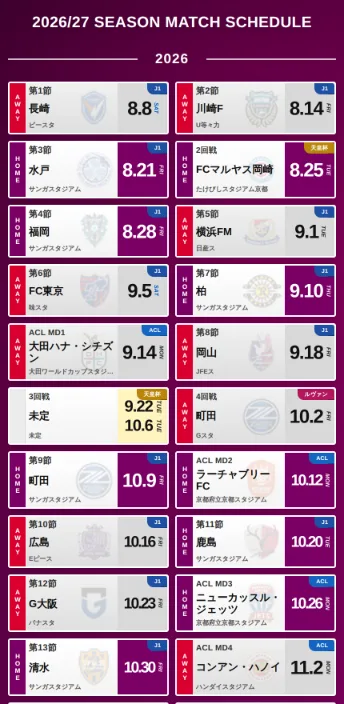
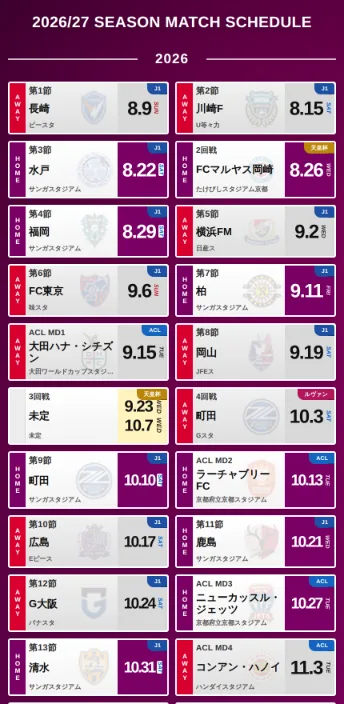
試合日の表示が端末のタイムゾーンで1日ずれるのを直す (#198)
入口ページのサムネイルで日付が1日前になっていた。調べたところ
サムネイルだけの問題ではなく、ページ自体の不具合だった。

  const date = new Date(`${value}T00:00:00+09:00`);  // JSTの瞬間を作る
  `${date.getMonth()+1}.${date.getDate()}`           // 端末のタイムゾーンで読む

日本より西では1日前の日付と曜日が出る。実測:

  Asia/Tokyo        第1節 8.9 SUN   正しい
  Australia/Sydney  第1節 8.9 SUN   正しい
  UTC / London / Los Angeles  第1節 8.8 SAT   ずれている

JSONの値は 2026-08-09（日）。サムネイルはUTCのコンテナで撮ったため
ずれた画像になっていた。海外から見ている人にも同じ画面が出ていたことになる。

試合日は固定の暦日なので、端末のタイムゾーンで変わってはいけない。
月日は文字列から直接取り、曜日だけUTC基準で計算するようにした。

UTCからPacific/Midway（-11）、Pacific/Kiritimati（+14）まで、表示された
71件の日付すべてが暦と一致することを確認した。サムネイルも撮り直し、
撮影時のタイムゾーンを Asia/Tokyo に固定した。

あわせて、tools/asset-versions.mjs の対象を画像へ広げた。中身を差し替えても
名前が同じなら、再訪した人には古い画像が使われ続ける。今回のサムネイルが
まさにその状態だった。tools.json のサムネイル参照と、HTMLの画像参照に
内容ハッシュが付く。tools.json のパスは public/ からの相対で書かれているため、
解決の基準を分けている。download属性の保存ファイル名など実ファイルでない
文字列には当たらないよう、画像は見つからなければ触らない。

画像を1バイト変えると検出されることを確認した。

diff --git a/public/sanga2025season.html b/public/sanga2025season.html
@@ -19,47 +19,47 @@
 </head>
 <body>
   <header class="site-header">
-    <img src="img/header.png" alt="Header Image">
+    <img src="img/header.png?v=dfedb800" alt="Header Image">
   </header>
   <div class="image-grid">
-    <img src="img/1.png" alt="Image 1" width="159" height="37">
-    <img src="img/2.png" alt="Image 2" width="159" height="37">
-    <img src="img/3.png" alt="Image 3" width="159" height="37">
-    <img src="img/4.png" alt="Image 4" width="159" height="37">
-    <img src="img/5.png" alt="Image 5" width="159" height="37">
-    <img src="img/6.png" alt="Image 6" width="159" height="37">
-    <img src="img/7.png" alt="Image 7" width="159" height="37">
-    <img src="img/8.png" alt="Image 8" width="159" height="37">
-    <img src="img/9.png" alt="Image 9" width="159" height="37">
-    <img src="img/10.png" alt="Image 10" width="159" height="37">
-    <img src="img/11.png" alt="Image 11" width="159" height="37">
-    <img src="img/12.png" alt="Image 12" width="159" height="37">
-    <img src="img/13.png" alt="Image 13" width="159" height="37">
-    <img src="img/14.png" alt="Image 14" width="159" height="37">
-    <img src="img/15.png" alt="Image 15" width="159" height="37">
-    <img src="img/16.png" alt="Image 16" width="159" height="37">
-    <img src="img/17.png" alt="Image 17" width="159" height="37">
-    <img src="img/18.png" alt="Image 18" width="159" height="37">
-    <img src="img/19.png" alt="Image 19" width="159" height="37">
-    <img src="img/20.png" alt="Image 20" width="159" height="37">
-    <img src="img/21.png" alt="Image 21" width="159" height="37">
-    <img src="img/22.png" alt="Image 22" width="159" height="37">
-    <img src="img/23.png" alt="Image 23" width="159" height="37">
-    <img src="img/24.png" alt="Image 24" width="159" height="37">
-    <img src="img/25.png" alt="Image 25" width="159" height="37">
-    <img src="img/26.png" alt="Image 26" width="159" height="37">
-    <img src="img/27.png" alt="Image 27" width="159" height="37">
-    <img src="img/28.png" alt="Image 28" width="159" height="37">
-    <img src="img/29.png" alt="Image 29" width="159" height="37">
-    <img src="img/30.png" alt="Image 30" width="159" height="37">
-    <img src="img/31.png" alt="Image 31" width="159" height="37">
-    <img src="img/32.png" alt="Image 32" width="159" height="37">
-    <img src="img/33.png" alt="Image 33" width="159" height="37">
-    <img src="img/34.png" alt="Image 34" width="159" height="37">
-    <img src="img/35.png" alt="Image 35" width="159" height="37">
-    <img src="img/36.png" alt="Image 36" width="159" height="37">
-    <img src="img/37.png" alt="Image 37" width="159" height="37">
-    <img src="img/38.png" alt="Image 38" width="159" height="37">
+    <img src="img/1.png?v=556c50af" alt="Image 1" width="159" height="37">
+    <img src="img/2.png?v=afb07b49" alt="Image 2" width="159" height="37">
+    <img src="img/3.png?v=b8c62e7c" alt="Image 3" width="159" height="37">
+    <img src="img/4.png?v=5a6a541a" alt="Image 4" width="159" height="37">
+    <img src="img/5.png?v=451e0804" alt="Image 5" width="159" height="37">
+    <img src="img/6.png?v=247b0ee7" alt="Image 6" width="159" height="37">
+    <img src="img/7.png?v=d2c898aa" alt="Image 7" width="159" height="37">
+    <img src="img/8.png?v=8498e369" alt="Image 8" width="159" height="37">
+    <img src="img/9.png?v=754c5e0e" alt="Image 9" width="159" height="37">
+    <img src="img/10.png?v=643e5d07" alt="Image 10" width="159" height="37">
+    <img src="img/11.png?v=9b334667" alt="Image 11" width="159" height="37">
+    <img src="img/12.png?v=a7fa11e1" alt="Image 12" width="159" height="37">
+    <img src="img/13.png?v=119fb711" alt="Image 13" width="159" height="37">
+    <img src="img/14.png?v=e15d97d6" alt="Image 14" width="159" height="37">
+    <img src="img/15.png?v=799693f4" alt="Image 15" width="159" height="37">
+    <img src="img/16.png?v=8c7bb0f0" alt="Image 16" width="159" height="37">
+    <img src="img/17.png?v=2e22123e" alt="Image 17" width="159" height="37">
+    <img src="img/18.png?v=d1bef894" alt="Image 18" width="159" height="37">
+    <img src="img/19.png?v=36c732ce" alt="Image 19" width="159" height="37">
+    <img src="img/20.png?v=169efa95" alt="Image 20" width="159" height="37">
+    <img src="img/21.png?v=94267b5e" alt="Image 21" width="159" height="37">
+    <img src="img/22.png?v=4a3afe8a" alt="Image 22" width="159" height="37">
+    <img src="img/23.png?v=c1d84363" alt="Image 23" width="159" height="37">
+    <img src="img/24.png?v=987bbe89" alt="Image 24" width="159" height="37">
+    <img src="img/25.png?v=ce9c9aaa" alt="Image 25" width="159" height="37">
+    <img src="img/26.png?v=a17841bc" alt="Image 26" width="159" height="37">
+    <img src="img/27.png?v=132c07d4" alt="Image 27" width="159" height="37">
+    <img src="img/28.png?v=3c11bd48" alt="Image 28" width="159" height="37">
+    <img src="img/29.png?v=2cc10dfe" alt="Image 29" width="159" height="37">
+    <img src="img/30.png?v=084f171e" alt="Image 30" width="159" height="37">
+    <img src="img/31.png?v=fd61b368" alt="Image 31" width="159" height="37">
+    <img src="img/32.png?v=fc3c39ed" alt="Image 32" width="159" height="37">
+    <img src="img/33.png?v=6c15bdbd" alt="Image 33" width="159" height="37">
+    <img src="img/34.png?v=9fca8ff6" alt="Image 34" width="159" height="37">
+    <img src="img/35.png?v=4aeb39ee" alt="Image 35" width="159" height="37">
+    <img src="img/36.png?v=091f8e53" alt="Image 36" width="159" height="37">
+    <img src="img/37.png?v=4b7001df" alt="Image 37" width="159" height="37">
+    <img src="img/38.png?v=5a43faa3" alt="Image 38" width="159" height="37">
     
   </div>
   <script src="script.js?v=d4dc6d4f"></script>

diff --git a/public/squad.html b/public/squad.html
@@ -137,13 +137,13 @@
         <div class="canvas-frame"><span></span><span></span><span></span><span></span></div>
 
         <header class="sq-header">
-          <img class="sq-title-img is-modern" src="assets/squad/header-starting-xi.png" alt="PREDICTED STARTING XI">
-          <img class="sq-title-img is-victorian" src="assets/squad/header-victorian.png" alt="PREDICTED STARTING XI">
-          <img class="sq-title-img is-graffiti" src="assets/squad/header-graffiti.png" alt="PREDICTED STARTING XI">
-          <img class="sq-title-img is-cyber" src="assets/squad/header-cyber.png" alt="PREDICTED STARTING XI">
-          <img class="sq-title-img is-vapor" src="assets/squad/header-vapor.png" alt="PREDICTED STARTING XI">
-          <img class="sq-title-img is-synth" src="assets/squad/header-synth.png" alt="PREDICTED STARTING XI">
-          <img class="sq-title-img is-scrap" src="assets/squad/header-scrap.png" alt="PREDICTED STARTING XI">
+          <img class="sq-title-img is-modern" src="assets/squad/header-starting-xi.png?v=5f0906d8" alt="PREDICTED STARTING XI">
+          <img class="sq-title-img is-victorian" src="assets/squad/header-victorian.png?v=5012f439" alt="PREDICTED STARTING XI">
+          <img class="sq-title-img is-graffiti" src="assets/squad/header-graffiti.png?v=f0c9fd95" alt="PREDICTED STARTING XI">
+          <img class="sq-title-img is-cyber" src="assets/squad/header-cyber.png?v=ddb9d6ef" alt="PREDICTED STARTING XI">
+          <img class="sq-title-img is-vapor" src="assets/squad/header-vapor.png?v=71d8c29e" alt="PREDICTED STARTING XI">
+          <img class="sq-title-img is-synth" src="assets/squad/header-synth.png?v=25691ca5" alt="PREDICTED STARTING XI">
+          <img class="sq-title-img is-scrap" src="assets/squad/header-scrap.png?v=7593d22d" alt="PREDICTED STARTING XI">
           <div class="sq-subtitle" id="sq-title-text">予想スタメン</div>
           <div class="sq-subtitle" id="sq-subtitle" style="margin-top:.4cqw">2026 明治安田J1リーグ 第10節 vs ○○</div>
           <div class="sq-rule"></div>

diff --git a/public/assets/app.js b/public/assets/app.js
@@ -695,14 +695,22 @@ import { domToPng } from './vendor/modern-screenshot/modern-screenshot.mjs?v=ddf
 
   const weekdayLabels=['SUN','MON','TUE','WED','THU','FRI','SAT'];
 
+  // 試合日は固定の暦日なので、端末のタイムゾーンで変わってはいけない。
+  // 以前は JST の瞬間を作ってから端末のタイムゾーンで読み出しており、
+  // 日本より西の地域では1日前の日付と曜日が出ていた。
+  // 月日は文字列から直接取り、曜日だけUTC基準で計算する。
   function formatDateParts(value){
     if(!value) return null;
-    const date=new Date(`${value}T00:00:00+09:00`);
+    const parts=/^(\d{4})-(\d{2})-(\d{2})$/.exec(value);
+    if(!parts) return null;
+    const [, year, month, day]=parts.map(Number);
+    const date=new Date(Date.UTC(year, month-1, day));
     if(Number.isNaN(date.getTime())) return null;
+    const weekday=date.getUTCDay();
     return {
-      main:`${date.getMonth()+1}.${date.getDate()}`,
-      weekday:weekdayLabels[date.getDay()],
-      weekdayClass:date.getDay()===0 ? 'sun' : date.getDay()===6 ? 'sat' : ''
+      main:`${month}.${day}`,
+      weekday:weekdayLabels[weekday],
+      weekdayClass:weekday===0 ? 'sun' : weekday===6 ? 'sat' : ''
     };
   }
 

diff --git a/tools/validate-tools.js b/tools/validate-tools.js
@@ -46,6 +46,10 @@ function readTools() {
 // public/ の外や外部サイトを指していないかを見る。
 // 入口ページは同一サイト内の導線だけを扱う。
 function resolveInsidePublic(relativePath, label) {
+  // 参照にはキャッシュ対策のクエリが付く（tools/asset-versions.mjs が付ける）。
+  // 実在確認はクエリを外したパスで行う。
+  relativePath = relativePath.split('?')[0];
+
   if (/^[a-z][a-z0-9+.-]*:/i.test(relativePath) || relativePath.startsWith('//')) {
     fail(`${label} は外部URLです: ${relativePath}`);
     return null;

diff --git a/public/index.html b/public/index.html
@@ -49,7 +49,7 @@
   <a class="topbar-mark" href="https://x.com/kou_osakacity" target="_blank"
      rel="noopener noreferrer" aria-label="作成者のX（新しいタブで開きます）">
     <!-- 作り手のアイコン。リンクにaria-labelがあるのでaltは空にする -->
-    <img src="assets/avatar.webp" alt="" width="128" height="128" decoding="async">
+    <img src="assets/avatar.webp?v=8ef11115" alt="" width="128" height="128" decoding="async">
   </a>
   <nav class="topbar-nav" aria-label="サイト内">
     <a href="#works">TOOLS</a>

diff --git a/public/sanga202627season.html b/public/sanga202627season.html
@@ -127,6 +127,6 @@
 <button class="settings-close" type="button">閉じる</button>
 </section>
 </main>
-<script type="module" src="assets/app.js?v=adcbc20b"></script>
+<script type="module" src="assets/app.js?v=dbad449d"></script>
 </body>
 </html>
